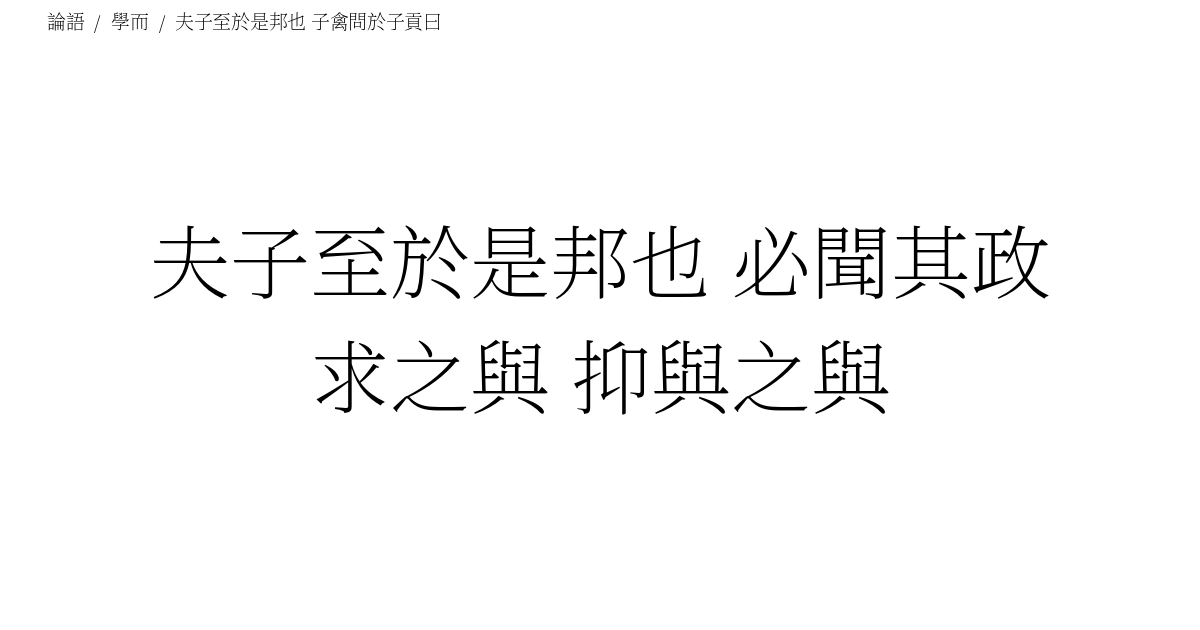
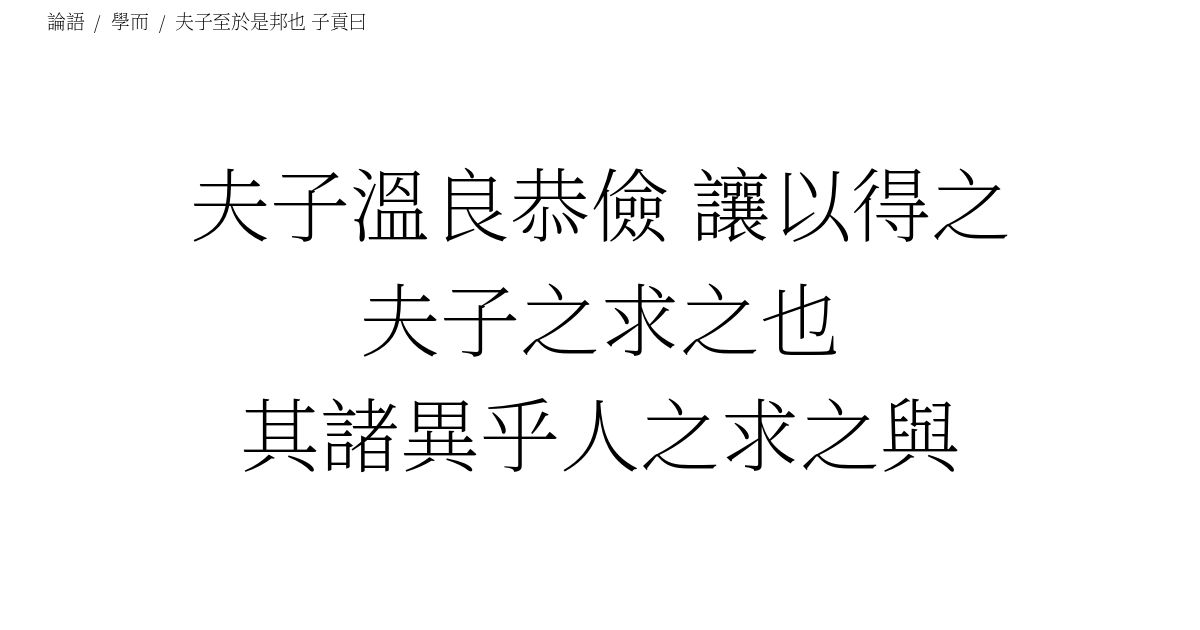
update content.

Changed region(s): [[0.1233, 0.2714, 0.8633, 0.754], [0.2775, 0.0, 0.37, 0.0603]]

diff --git a/docs/論語/學而/夫子至於是邦也.html b/docs/論語/學而/夫子至於是邦也.html
@@ -21,19 +21,19 @@
         <meta name="msapplication-TileColor" content="#ffffff">
         <meta name="msapplication-TileImage" content="/ms-icon-144x144.png">
         <meta name="theme-color" content="#ffffff">
-        <meta name="description" content="공자의 제자 자금이 자공에게 물었다. 선생님께서 어떤 나라에 이르시면 그 나라의 정사를 들으시는데, 선생께서 요구한 것입니까? 아니면 그 나라 임금이 들려준 것입니까?">
+        <meta name="description" content="자공이 말했다. 부자께서는 온화하고 어질며 공경하고 겸양함으로 그것을 얻으신 것이네, 부자께서 구하심은 다른 사람이 구한 것과는 다르다네.">
         <meta name="author" content="novemberizing">
         <meta name="generator" content="novemberizing static website generator version 0.0.1">
         <meta name="twitter:card" content="summary_large_image">
         <meta name="twitter:site" content="@iticworld">
         <meta name="twitter:creator" content="@iticworld">
         <meta name="twitter:title" content="論語/學而/夫子至於是邦也">
-        <meta name="twitter:description" content="공자의 제자 자금이 자공에게 물었다. 선생님께서 어떤 나라에 이르시면 그 나라의 정사를 들으시는데, 선생께서 요구한 것입니까? 아니면 그 나라 임금이 들려준 것입니까?"><meta name="twitter:image" content="https://novemberizing.github.io/orientalism/論語/學而/夫子至於是邦也.png">
+        <meta name="twitter:description" content="자공이 말했다. 부자께서는 온화하고 어질며 공경하고 겸양함으로 그것을 얻으신 것이네, 부자께서 구하심은 다른 사람이 구한 것과는 다르다네."><meta name="twitter:image" content="https://novemberizing.github.io/orientalism/論語/學而/夫子至於是邦也.png">
         <meta name="twitter:image:alt" content="論語/學而/夫子至於是邦也">
         <meta property="og:title" content="論語/學而/夫子至於是邦也" />
         <meta property="og:type" content="website" />
         <meta property="og:url" content="https://novemberizing.github.io/orientalism/論語/學而/夫子至於是邦也.html" />
-        <meta property="og:description" content="공자의 제자 자금이 자공에게 물었다. 선생님께서 어떤 나라에 이르시면 그 나라의 정사를 들으시는데, 선생께서 요구한 것입니까? 아니면 그 나라 임금이 들려준 것입니까?">
+        <meta property="og:description" content="자공이 말했다. 부자께서는 온화하고 어질며 공경하고 겸양함으로 그것을 얻으신 것이네, 부자께서 구하심은 다른 사람이 구한 것과는 다르다네.">
         <meta property="og:locale" content="ko_KR">
         <meta property="og:site_name" content="novemberizing/orientalism">
         <meta property="og:image" content="https://novemberizing.github.io/orientalism/論語/學而/夫子至於是邦也.png" />
@@ -55,7 +55,7 @@
                     document.getElementById('orientalism-play-btn').className = 'text-success';
                 }
                 playid = window.setTimeout(function(){
-                    location.href="/orientalism/論語/學而/學而時習之.html?play=on";
+                    location.href="/orientalism/論語/學而/夫子至於是邦也.html?play=on";
                 }, 15000);
                 if(document.getElementById('orientalism-play-btn')) {
                     document.getElementById('orientalism-play-btn').addEventListener('click', orientalismStop);
@@ -98,21 +98,22 @@
                         <div class="row">
                             <div class="col-lg-2 col-md-12">
                                 <h4 class="text-chinese text-chinese-prefix">
-                                    子禽問於子貢曰
+                                    子貢曰
                                 </h4>
                             </div>
                             <div class="col-lg-10 col-md-12">
                                 <div class="row">
                                     <div class="col-lg-12 col-md-12">
                                         <h1 class="text-chinese text-chinese-content">
-                                            夫子至於是邦也 必聞其政
-求之與 抑與之與
+                                            夫子溫良恭儉 讓以得之
+夫子之求之也
+其諸異乎人之求之與
                                         </h1>
                                     </div>
                                 </div>
                                 <div class="row">
                                     <div class="col-lg-12 col-md-12 text-chinese text-chinese-description p-5">
-                                        공자의 제자 자금이 자공에게 물었다. 선생님께서 어떤 나라에 이르시면 그 나라의 정사를 들으시는데, 선생께서 요구한 것입니까? 아니면 그 나라 임금이 들려준 것입니까?
+                                        자공이 말했다. 부자께서는 온화하고 어질며 공경하고 겸양함으로 그것을 얻으신 것이네, 부자께서 구하심은 다른 사람이 구한 것과는 다르다네.
                                     </div>
                                 </div>
                             </div>
@@ -124,10 +125,10 @@
                                 <a href="https://twitter.com/intent/tweet?url=https%3A%2F%2Fnovemberizing.github.io%2Forientalism%2F%25E8%25AB%2596%25E8%25AA%259E%2F%25E5%25AD%25B8%25E8%2580%258C%2F%25E5%25A4%25AB%25E5%25AD%2590%25E8%2587%25B3%25E6%2596%25BC%25E6%2598%25AF%25E9%2582%25A6%25E4%25B9%259F.html&hashtags=%E5%A4%AB%E5%AD%90%E8%87%B3%E6%96%BC%E6%98%AF%E9%82%A6%E4%B9%9F" target="_blank" class="text-secondary">
                                     <i class="fab fa-twitter fa-lg fa-fw"></i>
                                 </a>
-                                <a href="https://www.google.com/search?q=%E5%A4%AB%E5%AD%90%E8%87%B3%E6%96%BC%E6%98%AF%E9%82%A6%E4%B9%9F%20%E5%BF%85%E8%81%9E%E5%85%B6%E6%94%BF%0A%E6%B1%82%E4%B9%8B%E8%88%87%20%E6%8A%91%E8%88%87%E4%B9%8B%E8%88%87" target="_blank" class="text-secondary">
+                                <a href="https://www.google.com/search?q=%E5%A4%AB%E5%AD%90%E6%BA%AB%E8%89%AF%E6%81%AD%E5%84%89%20%E8%AE%93%E4%BB%A5%E5%BE%97%E4%B9%8B%0A%E5%A4%AB%E5%AD%90%E4%B9%8B%E6%B1%82%E4%B9%8B%E4%B9%9F%0A%E5%85%B6%E8%AB%B8%E7%95%B0%E4%B9%8E%E4%BA%BA%E4%B9%8B%E6%B1%82%E4%B9%8B%E8%88%87" target="_blank" class="text-secondary">
                                     <i class="fab fa-google fa-lg fa-fw"></i>
                                 </a>
-                                <a href="https://translate.google.co.kr/?sl=ko&tl=en&text=%EA%B3%B5%EC%9E%90%EC%9D%98%20%EC%A0%9C%EC%9E%90%20%EC%9E%90%EA%B8%88%EC%9D%B4%20%EC%9E%90%EA%B3%B5%EC%97%90%EA%B2%8C%20%EB%AC%BC%EC%97%88%EB%8B%A4.%20%EC%84%A0%EC%83%9D%EB%8B%98%EA%BB%98%EC%84%9C%20%EC%96%B4%EB%96%A4%20%EB%82%98%EB%9D%BC%EC%97%90%20%EC%9D%B4%EB%A5%B4%EC%8B%9C%EB%A9%B4%20%EA%B7%B8%20%EB%82%98%EB%9D%BC%EC%9D%98%20%EC%A0%95%EC%82%AC%EB%A5%BC%20%EB%93%A4%EC%9C%BC%EC%8B%9C%EB%8A%94%EB%8D%B0%2C%20%EC%84%A0%EC%83%9D%EA%BB%98%EC%84%9C%20%EC%9A%94%EA%B5%AC%ED%95%9C%20%EA%B2%83%EC%9E%85%EB%8B%88%EA%B9%8C%3F%20%EC%95%84%EB%8B%88%EB%A9%B4%20%EA%B7%B8%20%EB%82%98%EB%9D%BC%20%EC%9E%84%EA%B8%88%EC%9D%B4%20%EB%93%A4%EB%A0%A4%EC%A4%80%20%EA%B2%83%EC%9E%85%EB%8B%88%EA%B9%8C%3F&op=translate" target="_blank" class="text-secondary">
+                                <a href="https://translate.google.co.kr/?sl=ko&tl=en&text=%EC%9E%90%EA%B3%B5%EC%9D%B4%20%EB%A7%90%ED%96%88%EB%8B%A4.%20%EB%B6%80%EC%9E%90%EA%BB%98%EC%84%9C%EB%8A%94%20%EC%98%A8%ED%99%94%ED%95%98%EA%B3%A0%20%EC%96%B4%EC%A7%88%EB%A9%B0%20%EA%B3%B5%EA%B2%BD%ED%95%98%EA%B3%A0%20%EA%B2%B8%EC%96%91%ED%95%A8%EC%9C%BC%EB%A1%9C%20%EA%B7%B8%EA%B2%83%EC%9D%84%20%EC%96%BB%EC%9C%BC%EC%8B%A0%20%EA%B2%83%EC%9D%B4%EB%84%A4%2C%20%EB%B6%80%EC%9E%90%EA%BB%98%EC%84%9C%20%EA%B5%AC%ED%95%98%EC%8B%AC%EC%9D%80%20%EB%8B%A4%EB%A5%B8%20%EC%82%AC%EB%9E%8C%EC%9D%B4%20%EA%B5%AC%ED%95%9C%20%EA%B2%83%EA%B3%BC%EB%8A%94%20%EB%8B%A4%EB%A5%B4%EB%8B%A4%EB%84%A4.&op=translate" target="_blank" class="text-secondary">
                                     <i class="fas fa-language fa-lg fa-fw"></i>
                                 </a>
                                 <a href="#" class="text-secondary">
@@ -152,7 +153,7 @@
                         </div>
                     </div>
                     <div class="col-lg-4 col-md-12 p-2 book-panel">
-                        <a href="/orientalism/論語/學而/學而時習之.html" class="btn btn-outline-secondary p0 mt-1"><p class="font-weight-bold m0 p0 d-inline">學而時習之</p></a> <a href="/orientalism/論語/學而/其為人也孝弟.html" class="btn btn-outline-secondary p0 mt-1"><p class="font-weight-bold m0 p0 d-inline">其為人也孝弟</p></a> <a href="/orientalism/論語/學而/巧言令色.html" class="btn btn-outline-secondary p0 mt-1"><p class="font-weight-bold m0 p0 d-inline">巧言令色</p></a> <a href="/orientalism/論語/學而/吾日三省吾身.html" class="btn btn-outline-secondary p0 mt-1"><p class="font-weight-bold m0 p0 d-inline">吾日三省吾身</p></a> <a href="/orientalism/論語/學而/道千乘之國.html" class="btn btn-outline-secondary p0 mt-1"><p class="font-weight-bold m0 p0 d-inline">道千乘之國</p></a> <a href="/orientalism/論語/學而/弟子入則孝.html" class="btn btn-outline-secondary p0 mt-1"><p class="font-weight-bold m0 p0 d-inline">弟子入則孝</p></a> <a href="/orientalism/論語/學而/賢賢易色.html" class="btn btn-outline-secondary p0 mt-1"><p class="font-weight-bold m0 p0 d-inline">賢賢易色</p></a> <a href="/orientalism/論語/學而/君子不重則不威.html" class="btn btn-outline-secondary p0 mt-1"><p class="font-weight-bold m0 p0 d-inline">君子不重則不威</p></a> <a href="/orientalism/論語/學而/慎終追遠.html" class="btn btn-outline-secondary p0 mt-1"><p class="font-weight-bold m0 p0 d-inline">慎終追遠</p></a> <a href="/orientalism/論語/學而/夫子至於是邦也.html" class="btn btn-outline-success p0 mt-1"><p class="font-weight-bold m0 p0 d-inline">夫子至於是邦也</p></a>
+                        <a href="/orientalism/論語/學而/學而時習之.html" class="btn btn-outline-secondary p0 mt-1"><p class="font-weight-bold m0 p0 d-inline">學而時習之</p></a> <a href="/orientalism/論語/學而/其為人也孝弟.html" class="btn btn-outline-secondary p0 mt-1"><p class="font-weight-bold m0 p0 d-inline">其為人也孝弟</p></a> <a href="/orientalism/論語/學而/巧言令色.html" class="btn btn-outline-secondary p0 mt-1"><p class="font-weight-bold m0 p0 d-inline">巧言令色</p></a> <a href="/orientalism/論語/學而/吾日三省吾身.html" class="btn btn-outline-secondary p0 mt-1"><p class="font-weight-bold m0 p0 d-inline">吾日三省吾身</p></a> <a href="/orientalism/論語/學而/道千乘之國.html" class="btn btn-outline-secondary p0 mt-1"><p class="font-weight-bold m0 p0 d-inline">道千乘之國</p></a> <a href="/orientalism/論語/學而/弟子入則孝.html" class="btn btn-outline-secondary p0 mt-1"><p class="font-weight-bold m0 p0 d-inline">弟子入則孝</p></a> <a href="/orientalism/論語/學而/賢賢易色.html" class="btn btn-outline-secondary p0 mt-1"><p class="font-weight-bold m0 p0 d-inline">賢賢易色</p></a> <a href="/orientalism/論語/學而/君子不重則不威.html" class="btn btn-outline-secondary p0 mt-1"><p class="font-weight-bold m0 p0 d-inline">君子不重則不威</p></a> <a href="/orientalism/論語/學而/慎終追遠.html" class="btn btn-outline-secondary p0 mt-1"><p class="font-weight-bold m0 p0 d-inline">慎終追遠</p></a> <a href="/orientalism/論語/學而/夫子至於是邦也.html" class="btn btn-outline-success p0 mt-1"><p class="font-weight-bold m0 p0 d-inline">夫子至於是邦也</p></a> <a href="/orientalism/論語/學而/夫子至於是邦也.html" class="btn btn-outline-success p0 mt-1"><p class="font-weight-bold m0 p0 d-inline">夫子至於是邦也</p></a>
                     </div>
                 </div>
             </div>

diff --git a/docs/論語/學而/index.html b/docs/論語/學而/index.html
@@ -153,7 +153,7 @@
                         </div>
                     </div>
                     <div class="col-lg-4 col-md-12 p-2 book-panel">
-                        <a href="/orientalism/論語/學而/學而時習之.html" class="btn btn-outline-success p0 mt-1"><p class="font-weight-bold m0 p0 d-inline">學而時習之</p></a> <a href="/orientalism/論語/學而/其為人也孝弟.html" class="btn btn-outline-secondary p0 mt-1"><p class="font-weight-bold m0 p0 d-inline">其為人也孝弟</p></a> <a href="/orientalism/論語/學而/巧言令色.html" class="btn btn-outline-secondary p0 mt-1"><p class="font-weight-bold m0 p0 d-inline">巧言令色</p></a> <a href="/orientalism/論語/學而/吾日三省吾身.html" class="btn btn-outline-secondary p0 mt-1"><p class="font-weight-bold m0 p0 d-inline">吾日三省吾身</p></a> <a href="/orientalism/論語/學而/道千乘之國.html" class="btn btn-outline-secondary p0 mt-1"><p class="font-weight-bold m0 p0 d-inline">道千乘之國</p></a> <a href="/orientalism/論語/學而/弟子入則孝.html" class="btn btn-outline-secondary p0 mt-1"><p class="font-weight-bold m0 p0 d-inline">弟子入則孝</p></a> <a href="/orientalism/論語/學而/賢賢易色.html" class="btn btn-outline-secondary p0 mt-1"><p class="font-weight-bold m0 p0 d-inline">賢賢易色</p></a> <a href="/orientalism/論語/學而/君子不重則不威.html" class="btn btn-outline-secondary p0 mt-1"><p class="font-weight-bold m0 p0 d-inline">君子不重則不威</p></a> <a href="/orientalism/論語/學而/慎終追遠.html" class="btn btn-outline-secondary p0 mt-1"><p class="font-weight-bold m0 p0 d-inline">慎終追遠</p></a> <a href="/orientalism/論語/學而/夫子至於是邦也.html" class="btn btn-outline-secondary p0 mt-1"><p class="font-weight-bold m0 p0 d-inline">夫子至於是邦也</p></a>
+                        <a href="/orientalism/論語/學而/學而時習之.html" class="btn btn-outline-success p0 mt-1"><p class="font-weight-bold m0 p0 d-inline">學而時習之</p></a> <a href="/orientalism/論語/學而/其為人也孝弟.html" class="btn btn-outline-secondary p0 mt-1"><p class="font-weight-bold m0 p0 d-inline">其為人也孝弟</p></a> <a href="/orientalism/論語/學而/巧言令色.html" class="btn btn-outline-secondary p0 mt-1"><p class="font-weight-bold m0 p0 d-inline">巧言令色</p></a> <a href="/orientalism/論語/學而/吾日三省吾身.html" class="btn btn-outline-secondary p0 mt-1"><p class="font-weight-bold m0 p0 d-inline">吾日三省吾身</p></a> <a href="/orientalism/論語/學而/道千乘之國.html" class="btn btn-outline-secondary p0 mt-1"><p class="font-weight-bold m0 p0 d-inline">道千乘之國</p></a> <a href="/orientalism/論語/學而/弟子入則孝.html" class="btn btn-outline-secondary p0 mt-1"><p class="font-weight-bold m0 p0 d-inline">弟子入則孝</p></a> <a href="/orientalism/論語/學而/賢賢易色.html" class="btn btn-outline-secondary p0 mt-1"><p class="font-weight-bold m0 p0 d-inline">賢賢易色</p></a> <a href="/orientalism/論語/學而/君子不重則不威.html" class="btn btn-outline-secondary p0 mt-1"><p class="font-weight-bold m0 p0 d-inline">君子不重則不威</p></a> <a href="/orientalism/論語/學而/慎終追遠.html" class="btn btn-outline-secondary p0 mt-1"><p class="font-weight-bold m0 p0 d-inline">慎終追遠</p></a> <a href="/orientalism/論語/學而/夫子至於是邦也.html" class="btn btn-outline-secondary p0 mt-1"><p class="font-weight-bold m0 p0 d-inline">夫子至於是邦也</p></a> <a href="/orientalism/論語/學而/夫子至於是邦也.html" class="btn btn-outline-secondary p0 mt-1"><p class="font-weight-bold m0 p0 d-inline">夫子至於是邦也</p></a>
                     </div>
                 </div>
             </div>

diff --git a/docs/論語/學而/其為人也孝弟.html b/docs/論語/學而/其為人也孝弟.html
@@ -154,7 +154,7 @@
                         </div>
                     </div>
                     <div class="col-lg-4 col-md-12 p-2 book-panel">
-                        <a href="/orientalism/論語/學而/學而時習之.html" class="btn btn-outline-secondary p0 mt-1"><p class="font-weight-bold m0 p0 d-inline">學而時習之</p></a> <a href="/orientalism/論語/學而/其為人也孝弟.html" class="btn btn-outline-success p0 mt-1"><p class="font-weight-bold m0 p0 d-inline">其為人也孝弟</p></a> <a href="/orientalism/論語/學而/巧言令色.html" class="btn btn-outline-secondary p0 mt-1"><p class="font-weight-bold m0 p0 d-inline">巧言令色</p></a> <a href="/orientalism/論語/學而/吾日三省吾身.html" class="btn btn-outline-secondary p0 mt-1"><p class="font-weight-bold m0 p0 d-inline">吾日三省吾身</p></a> <a href="/orientalism/論語/學而/道千乘之國.html" class="btn btn-outline-secondary p0 mt-1"><p class="font-weight-bold m0 p0 d-inline">道千乘之國</p></a> <a href="/orientalism/論語/學而/弟子入則孝.html" class="btn btn-outline-secondary p0 mt-1"><p class="font-weight-bold m0 p0 d-inline">弟子入則孝</p></a> <a href="/orientalism/論語/學而/賢賢易色.html" class="btn btn-outline-secondary p0 mt-1"><p class="font-weight-bold m0 p0 d-inline">賢賢易色</p></a> <a href="/orientalism/論語/學而/君子不重則不威.html" class="btn btn-outline-secondary p0 mt-1"><p class="font-weight-bold m0 p0 d-inline">君子不重則不威</p></a> <a href="/orientalism/論語/學而/慎終追遠.html" class="btn btn-outline-secondary p0 mt-1"><p class="font-weight-bold m0 p0 d-inline">慎終追遠</p></a> <a href="/orientalism/論語/學而/夫子至於是邦也.html" class="btn btn-outline-secondary p0 mt-1"><p class="font-weight-bold m0 p0 d-inline">夫子至於是邦也</p></a>
+                        <a href="/orientalism/論語/學而/學而時習之.html" class="btn btn-outline-secondary p0 mt-1"><p class="font-weight-bold m0 p0 d-inline">學而時習之</p></a> <a href="/orientalism/論語/學而/其為人也孝弟.html" class="btn btn-outline-success p0 mt-1"><p class="font-weight-bold m0 p0 d-inline">其為人也孝弟</p></a> <a href="/orientalism/論語/學而/巧言令色.html" class="btn btn-outline-secondary p0 mt-1"><p class="font-weight-bold m0 p0 d-inline">巧言令色</p></a> <a href="/orientalism/論語/學而/吾日三省吾身.html" class="btn btn-outline-secondary p0 mt-1"><p class="font-weight-bold m0 p0 d-inline">吾日三省吾身</p></a> <a href="/orientalism/論語/學而/道千乘之國.html" class="btn btn-outline-secondary p0 mt-1"><p class="font-weight-bold m0 p0 d-inline">道千乘之國</p></a> <a href="/orientalism/論語/學而/弟子入則孝.html" class="btn btn-outline-secondary p0 mt-1"><p class="font-weight-bold m0 p0 d-inline">弟子入則孝</p></a> <a href="/orientalism/論語/學而/賢賢易色.html" class="btn btn-outline-secondary p0 mt-1"><p class="font-weight-bold m0 p0 d-inline">賢賢易色</p></a> <a href="/orientalism/論語/學而/君子不重則不威.html" class="btn btn-outline-secondary p0 mt-1"><p class="font-weight-bold m0 p0 d-inline">君子不重則不威</p></a> <a href="/orientalism/論語/學而/慎終追遠.html" class="btn btn-outline-secondary p0 mt-1"><p class="font-weight-bold m0 p0 d-inline">慎終追遠</p></a> <a href="/orientalism/論語/學而/夫子至於是邦也.html" class="btn btn-outline-secondary p0 mt-1"><p class="font-weight-bold m0 p0 d-inline">夫子至於是邦也</p></a> <a href="/orientalism/論語/學而/夫子至於是邦也.html" class="btn btn-outline-secondary p0 mt-1"><p class="font-weight-bold m0 p0 d-inline">夫子至於是邦也</p></a>
                     </div>
                 </div>
             </div>

diff --git a/docs/論語/學而/君子不重則不威.html b/docs/論語/學而/君子不重則不威.html
@@ -153,7 +153,7 @@
                         </div>
                     </div>
                     <div class="col-lg-4 col-md-12 p-2 book-panel">
-                        <a href="/orientalism/論語/學而/學而時習之.html" class="btn btn-outline-secondary p0 mt-1"><p class="font-weight-bold m0 p0 d-inline">學而時習之</p></a> <a href="/orientalism/論語/學而/其為人也孝弟.html" class="btn btn-outline-secondary p0 mt-1"><p class="font-weight-bold m0 p0 d-inline">其為人也孝弟</p></a> <a href="/orientalism/論語/學而/巧言令色.html" class="btn btn-outline-secondary p0 mt-1"><p class="font-weight-bold m0 p0 d-inline">巧言令色</p></a> <a href="/orientalism/論語/學而/吾日三省吾身.html" class="btn btn-outline-secondary p0 mt-1"><p class="font-weight-bold m0 p0 d-inline">吾日三省吾身</p></a> <a href="/orientalism/論語/學而/道千乘之國.html" class="btn btn-outline-secondary p0 mt-1"><p class="font-weight-bold m0 p0 d-inline">道千乘之國</p></a> <a href="/orientalism/論語/學而/弟子入則孝.html" class="btn btn-outline-secondary p0 mt-1"><p class="font-weight-bold m0 p0 d-inline">弟子入則孝</p></a> <a href="/orientalism/論語/學而/賢賢易色.html" class="btn btn-outline-secondary p0 mt-1"><p class="font-weight-bold m0 p0 d-inline">賢賢易色</p></a> <a href="/orientalism/論語/學而/君子不重則不威.html" class="btn btn-outline-success p0 mt-1"><p class="font-weight-bold m0 p0 d-inline">君子不重則不威</p></a> <a href="/orientalism/論語/學而/慎終追遠.html" class="btn btn-outline-secondary p0 mt-1"><p class="font-weight-bold m0 p0 d-inline">慎終追遠</p></a> <a href="/orientalism/論語/學而/夫子至於是邦也.html" class="btn btn-outline-secondary p0 mt-1"><p class="font-weight-bold m0 p0 d-inline">夫子至於是邦也</p></a>
+                        <a href="/orientalism/論語/學而/學而時習之.html" class="btn btn-outline-secondary p0 mt-1"><p class="font-weight-bold m0 p0 d-inline">學而時習之</p></a> <a href="/orientalism/論語/學而/其為人也孝弟.html" class="btn btn-outline-secondary p0 mt-1"><p class="font-weight-bold m0 p0 d-inline">其為人也孝弟</p></a> <a href="/orientalism/論語/學而/巧言令色.html" class="btn btn-outline-secondary p0 mt-1"><p class="font-weight-bold m0 p0 d-inline">巧言令色</p></a> <a href="/orientalism/論語/學而/吾日三省吾身.html" class="btn btn-outline-secondary p0 mt-1"><p class="font-weight-bold m0 p0 d-inline">吾日三省吾身</p></a> <a href="/orientalism/論語/學而/道千乘之國.html" class="btn btn-outline-secondary p0 mt-1"><p class="font-weight-bold m0 p0 d-inline">道千乘之國</p></a> <a href="/orientalism/論語/學而/弟子入則孝.html" class="btn btn-outline-secondary p0 mt-1"><p class="font-weight-bold m0 p0 d-inline">弟子入則孝</p></a> <a href="/orientalism/論語/學而/賢賢易色.html" class="btn btn-outline-secondary p0 mt-1"><p class="font-weight-bold m0 p0 d-inline">賢賢易色</p></a> <a href="/orientalism/論語/學而/君子不重則不威.html" class="btn btn-outline-success p0 mt-1"><p class="font-weight-bold m0 p0 d-inline">君子不重則不威</p></a> <a href="/orientalism/論語/學而/慎終追遠.html" class="btn btn-outline-secondary p0 mt-1"><p class="font-weight-bold m0 p0 d-inline">慎終追遠</p></a> <a href="/orientalism/論語/學而/夫子至於是邦也.html" class="btn btn-outline-secondary p0 mt-1"><p class="font-weight-bold m0 p0 d-inline">夫子至於是邦也</p></a> <a href="/orientalism/論語/學而/夫子至於是邦也.html" class="btn btn-outline-secondary p0 mt-1"><p class="font-weight-bold m0 p0 d-inline">夫子至於是邦也</p></a>
                     </div>
                 </div>
             </div>

diff --git a/docs/論語/學而/吾日三省吾身.html b/docs/論語/學而/吾日三省吾身.html
@@ -152,7 +152,7 @@
                         </div>
                     </div>
                     <div class="col-lg-4 col-md-12 p-2 book-panel">
-                        <a href="/orientalism/論語/學而/學而時習之.html" class="btn btn-outline-secondary p0 mt-1"><p class="font-weight-bold m0 p0 d-inline">學而時習之</p></a> <a href="/orientalism/論語/學而/其為人也孝弟.html" class="btn btn-outline-secondary p0 mt-1"><p class="font-weight-bold m0 p0 d-inline">其為人也孝弟</p></a> <a href="/orientalism/論語/學而/巧言令色.html" class="btn btn-outline-secondary p0 mt-1"><p class="font-weight-bold m0 p0 d-inline">巧言令色</p></a> <a href="/orientalism/論語/學而/吾日三省吾身.html" class="btn btn-outline-success p0 mt-1"><p class="font-weight-bold m0 p0 d-inline">吾日三省吾身</p></a> <a href="/orientalism/論語/學而/道千乘之國.html" class="btn btn-outline-secondary p0 mt-1"><p class="font-weight-bold m0 p0 d-inline">道千乘之國</p></a> <a href="/orientalism/論語/學而/弟子入則孝.html" class="btn btn-outline-secondary p0 mt-1"><p class="font-weight-bold m0 p0 d-inline">弟子入則孝</p></a> <a href="/orientalism/論語/學而/賢賢易色.html" class="btn btn-outline-secondary p0 mt-1"><p class="font-weight-bold m0 p0 d-inline">賢賢易色</p></a> <a href="/orientalism/論語/學而/君子不重則不威.html" class="btn btn-outline-secondary p0 mt-1"><p class="font-weight-bold m0 p0 d-inline">君子不重則不威</p></a> <a href="/orientalism/論語/學而/慎終追遠.html" class="btn btn-outline-secondary p0 mt-1"><p class="font-weight-bold m0 p0 d-inline">慎終追遠</p></a> <a href="/orientalism/論語/學而/夫子至於是邦也.html" class="btn btn-outline-secondary p0 mt-1"><p class="font-weight-bold m0 p0 d-inline">夫子至於是邦也</p></a>
+                        <a href="/orientalism/論語/學而/學而時習之.html" class="btn btn-outline-secondary p0 mt-1"><p class="font-weight-bold m0 p0 d-inline">學而時習之</p></a> <a href="/orientalism/論語/學而/其為人也孝弟.html" class="btn btn-outline-secondary p0 mt-1"><p class="font-weight-bold m0 p0 d-inline">其為人也孝弟</p></a> <a href="/orientalism/論語/學而/巧言令色.html" class="btn btn-outline-secondary p0 mt-1"><p class="font-weight-bold m0 p0 d-inline">巧言令色</p></a> <a href="/orientalism/論語/學而/吾日三省吾身.html" class="btn btn-outline-success p0 mt-1"><p class="font-weight-bold m0 p0 d-inline">吾日三省吾身</p></a> <a href="/orientalism/論語/學而/道千乘之國.html" class="btn btn-outline-secondary p0 mt-1"><p class="font-weight-bold m0 p0 d-inline">道千乘之國</p></a> <a href="/orientalism/論語/學而/弟子入則孝.html" class="btn btn-outline-secondary p0 mt-1"><p class="font-weight-bold m0 p0 d-inline">弟子入則孝</p></a> <a href="/orientalism/論語/學而/賢賢易色.html" class="btn btn-outline-secondary p0 mt-1"><p class="font-weight-bold m0 p0 d-inline">賢賢易色</p></a> <a href="/orientalism/論語/學而/君子不重則不威.html" class="btn btn-outline-secondary p0 mt-1"><p class="font-weight-bold m0 p0 d-inline">君子不重則不威</p></a> <a href="/orientalism/論語/學而/慎終追遠.html" class="btn btn-outline-secondary p0 mt-1"><p class="font-weight-bold m0 p0 d-inline">慎終追遠</p></a> <a href="/orientalism/論語/學而/夫子至於是邦也.html" class="btn btn-outline-secondary p0 mt-1"><p class="font-weight-bold m0 p0 d-inline">夫子至於是邦也</p></a> <a href="/orientalism/論語/學而/夫子至於是邦也.html" class="btn btn-outline-secondary p0 mt-1"><p class="font-weight-bold m0 p0 d-inline">夫子至於是邦也</p></a>
                     </div>
                 </div>
             </div>

diff --git a/docs/論語/學而/學而時習之.html b/docs/論語/學而/學而時習之.html
@@ -153,7 +153,7 @@
                         </div>
                     </div>
                     <div class="col-lg-4 col-md-12 p-2 book-panel">
-                        <a href="/orientalism/論語/學而/學而時習之.html" class="btn btn-outline-success p0 mt-1"><p class="font-weight-bold m0 p0 d-inline">學而時習之</p></a> <a href="/orientalism/論語/學而/其為人也孝弟.html" class="btn btn-outline-secondary p0 mt-1"><p class="font-weight-bold m0 p0 d-inline">其為人也孝弟</p></a> <a href="/orientalism/論語/學而/巧言令色.html" class="btn btn-outline-secondary p0 mt-1"><p class="font-weight-bold m0 p0 d-inline">巧言令色</p></a> <a href="/orientalism/論語/學而/吾日三省吾身.html" class="btn btn-outline-secondary p0 mt-1"><p class="font-weight-bold m0 p0 d-inline">吾日三省吾身</p></a> <a href="/orientalism/論語/學而/道千乘之國.html" class="btn btn-outline-secondary p0 mt-1"><p class="font-weight-bold m0 p0 d-inline">道千乘之國</p></a> <a href="/orientalism/論語/學而/弟子入則孝.html" class="btn btn-outline-secondary p0 mt-1"><p class="font-weight-bold m0 p0 d-inline">弟子入則孝</p></a> <a href="/orientalism/論語/學而/賢賢易色.html" class="btn btn-outline-secondary p0 mt-1"><p class="font-weight-bold m0 p0 d-inline">賢賢易色</p></a> <a href="/orientalism/論語/學而/君子不重則不威.html" class="btn btn-outline-secondary p0 mt-1"><p class="font-weight-bold m0 p0 d-inline">君子不重則不威</p></a> <a href="/orientalism/論語/學而/慎終追遠.html" class="btn btn-outline-secondary p0 mt-1"><p class="font-weight-bold m0 p0 d-inline">慎終追遠</p></a> <a href="/orientalism/論語/學而/夫子至於是邦也.html" class="btn btn-outline-secondary p0 mt-1"><p class="font-weight-bold m0 p0 d-inline">夫子至於是邦也</p></a>
+                        <a href="/orientalism/論語/學而/學而時習之.html" class="btn btn-outline-success p0 mt-1"><p class="font-weight-bold m0 p0 d-inline">學而時習之</p></a> <a href="/orientalism/論語/學而/其為人也孝弟.html" class="btn btn-outline-secondary p0 mt-1"><p class="font-weight-bold m0 p0 d-inline">其為人也孝弟</p></a> <a href="/orientalism/論語/學而/巧言令色.html" class="btn btn-outline-secondary p0 mt-1"><p class="font-weight-bold m0 p0 d-inline">巧言令色</p></a> <a href="/orientalism/論語/學而/吾日三省吾身.html" class="btn btn-outline-secondary p0 mt-1"><p class="font-weight-bold m0 p0 d-inline">吾日三省吾身</p></a> <a href="/orientalism/論語/學而/道千乘之國.html" class="btn btn-outline-secondary p0 mt-1"><p class="font-weight-bold m0 p0 d-inline">道千乘之國</p></a> <a href="/orientalism/論語/學而/弟子入則孝.html" class="btn btn-outline-secondary p0 mt-1"><p class="font-weight-bold m0 p0 d-inline">弟子入則孝</p></a> <a href="/orientalism/論語/學而/賢賢易色.html" class="btn btn-outline-secondary p0 mt-1"><p class="font-weight-bold m0 p0 d-inline">賢賢易色</p></a> <a href="/orientalism/論語/學而/君子不重則不威.html" class="btn btn-outline-secondary p0 mt-1"><p class="font-weight-bold m0 p0 d-inline">君子不重則不威</p></a> <a href="/orientalism/論語/學而/慎終追遠.html" class="btn btn-outline-secondary p0 mt-1"><p class="font-weight-bold m0 p0 d-inline">慎終追遠</p></a> <a href="/orientalism/論語/學而/夫子至於是邦也.html" class="btn btn-outline-secondary p0 mt-1"><p class="font-weight-bold m0 p0 d-inline">夫子至於是邦也</p></a> <a href="/orientalism/論語/學而/夫子至於是邦也.html" class="btn btn-outline-secondary p0 mt-1"><p class="font-weight-bold m0 p0 d-inline">夫子至於是邦也</p></a>
                     </div>
                 </div>
             </div>

diff --git a/docs/論語/學而/巧言令色.html b/docs/論語/學而/巧言令色.html
@@ -151,7 +151,7 @@
                         </div>
                     </div>
                     <div class="col-lg-4 col-md-12 p-2 book-panel">
-                        <a href="/orientalism/論語/學而/學而時習之.html" class="btn btn-outline-secondary p0 mt-1"><p class="font-weight-bold m0 p0 d-inline">學而時習之</p></a> <a href="/orientalism/論語/學而/其為人也孝弟.html" class="btn btn-outline-secondary p0 mt-1"><p class="font-weight-bold m0 p0 d-inline">其為人也孝弟</p></a> <a href="/orientalism/論語/學而/巧言令色.html" class="btn btn-outline-success p0 mt-1"><p class="font-weight-bold m0 p0 d-inline">巧言令色</p></a> <a href="/orientalism/論語/學而/吾日三省吾身.html" class="btn btn-outline-secondary p0 mt-1"><p class="font-weight-bold m0 p0 d-inline">吾日三省吾身</p></a> <a href="/orientalism/論語/學而/道千乘之國.html" class="btn btn-outline-secondary p0 mt-1"><p class="font-weight-bold m0 p0 d-inline">道千乘之國</p></a> <a href="/orientalism/論語/學而/弟子入則孝.html" class="btn btn-outline-secondary p0 mt-1"><p class="font-weight-bold m0 p0 d-inline">弟子入則孝</p></a> <a href="/orientalism/論語/學而/賢賢易色.html" class="btn btn-outline-secondary p0 mt-1"><p class="font-weight-bold m0 p0 d-inline">賢賢易色</p></a> <a href="/orientalism/論語/學而/君子不重則不威.html" class="btn btn-outline-secondary p0 mt-1"><p class="font-weight-bold m0 p0 d-inline">君子不重則不威</p></a> <a href="/orientalism/論語/學而/慎終追遠.html" class="btn btn-outline-secondary p0 mt-1"><p class="font-weight-bold m0 p0 d-inline">慎終追遠</p></a> <a href="/orientalism/論語/學而/夫子至於是邦也.html" class="btn btn-outline-secondary p0 mt-1"><p class="font-weight-bold m0 p0 d-inline">夫子至於是邦也</p></a>
+                        <a href="/orientalism/論語/學而/學而時習之.html" class="btn btn-outline-secondary p0 mt-1"><p class="font-weight-bold m0 p0 d-inline">學而時習之</p></a> <a href="/orientalism/論語/學而/其為人也孝弟.html" class="btn btn-outline-secondary p0 mt-1"><p class="font-weight-bold m0 p0 d-inline">其為人也孝弟</p></a> <a href="/orientalism/論語/學而/巧言令色.html" class="btn btn-outline-success p0 mt-1"><p class="font-weight-bold m0 p0 d-inline">巧言令色</p></a> <a href="/orientalism/論語/學而/吾日三省吾身.html" class="btn btn-outline-secondary p0 mt-1"><p class="font-weight-bold m0 p0 d-inline">吾日三省吾身</p></a> <a href="/orientalism/論語/學而/道千乘之國.html" class="btn btn-outline-secondary p0 mt-1"><p class="font-weight-bold m0 p0 d-inline">道千乘之國</p></a> <a href="/orientalism/論語/學而/弟子入則孝.html" class="btn btn-outline-secondary p0 mt-1"><p class="font-weight-bold m0 p0 d-inline">弟子入則孝</p></a> <a href="/orientalism/論語/學而/賢賢易色.html" class="btn btn-outline-secondary p0 mt-1"><p class="font-weight-bold m0 p0 d-inline">賢賢易色</p></a> <a href="/orientalism/論語/學而/君子不重則不威.html" class="btn btn-outline-secondary p0 mt-1"><p class="font-weight-bold m0 p0 d-inline">君子不重則不威</p></a> <a href="/orientalism/論語/學而/慎終追遠.html" class="btn btn-outline-secondary p0 mt-1"><p class="font-weight-bold m0 p0 d-inline">慎終追遠</p></a> <a href="/orientalism/論語/學而/夫子至於是邦也.html" class="btn btn-outline-secondary p0 mt-1"><p class="font-weight-bold m0 p0 d-inline">夫子至於是邦也</p></a> <a href="/orientalism/論語/學而/夫子至於是邦也.html" class="btn btn-outline-secondary p0 mt-1"><p class="font-weight-bold m0 p0 d-inline">夫子至於是邦也</p></a>
                     </div>
                 </div>
             </div>

diff --git a/docs/論語/學而/弟子入則孝.html b/docs/論語/學而/弟子入則孝.html
@@ -153,7 +153,7 @@
                         </div>
                     </div>
                     <div class="col-lg-4 col-md-12 p-2 book-panel">
-                        <a href="/orientalism/論語/學而/學而時習之.html" class="btn btn-outline-secondary p0 mt-1"><p class="font-weight-bold m0 p0 d-inline">學而時習之</p></a> <a href="/orientalism/論語/學而/其為人也孝弟.html" class="btn btn-outline-secondary p0 mt-1"><p class="font-weight-bold m0 p0 d-inline">其為人也孝弟</p></a> <a href="/orientalism/論語/學而/巧言令色.html" class="btn btn-outline-secondary p0 mt-1"><p class="font-weight-bold m0 p0 d-inline">巧言令色</p></a> <a href="/orientalism/論語/學而/吾日三省吾身.html" class="btn btn-outline-secondary p0 mt-1"><p class="font-weight-bold m0 p0 d-inline">吾日三省吾身</p></a> <a href="/orientalism/論語/學而/道千乘之國.html" class="btn btn-outline-secondary p0 mt-1"><p class="font-weight-bold m0 p0 d-inline">道千乘之國</p></a> <a href="/orientalism/論語/學而/弟子入則孝.html" class="btn btn-outline-success p0 mt-1"><p class="font-weight-bold m0 p0 d-inline">弟子入則孝</p></a> <a href="/orientalism/論語/學而/賢賢易色.html" class="btn btn-outline-secondary p0 mt-1"><p class="font-weight-bold m0 p0 d-inline">賢賢易色</p></a> <a href="/orientalism/論語/學而/君子不重則不威.html" class="btn btn-outline-secondary p0 mt-1"><p class="font-weight-bold m0 p0 d-inline">君子不重則不威</p></a> <a href="/orientalism/論語/學而/慎終追遠.html" class="btn btn-outline-secondary p0 mt-1"><p class="font-weight-bold m0 p0 d-inline">慎終追遠</p></a> <a href="/orientalism/論語/學而/夫子至於是邦也.html" class="btn btn-outline-secondary p0 mt-1"><p class="font-weight-bold m0 p0 d-inline">夫子至於是邦也</p></a>
+                        <a href="/orientalism/論語/學而/學而時習之.html" class="btn btn-outline-secondary p0 mt-1"><p class="font-weight-bold m0 p0 d-inline">學而時習之</p></a> <a href="/orientalism/論語/學而/其為人也孝弟.html" class="btn btn-outline-secondary p0 mt-1"><p class="font-weight-bold m0 p0 d-inline">其為人也孝弟</p></a> <a href="/orientalism/論語/學而/巧言令色.html" class="btn btn-outline-secondary p0 mt-1"><p class="font-weight-bold m0 p0 d-inline">巧言令色</p></a> <a href="/orientalism/論語/學而/吾日三省吾身.html" class="btn btn-outline-secondary p0 mt-1"><p class="font-weight-bold m0 p0 d-inline">吾日三省吾身</p></a> <a href="/orientalism/論語/學而/道千乘之國.html" class="btn btn-outline-secondary p0 mt-1"><p class="font-weight-bold m0 p0 d-inline">道千乘之國</p></a> <a href="/orientalism/論語/學而/弟子入則孝.html" class="btn btn-outline-success p0 mt-1"><p class="font-weight-bold m0 p0 d-inline">弟子入則孝</p></a> <a href="/orientalism/論語/學而/賢賢易色.html" class="btn btn-outline-secondary p0 mt-1"><p class="font-weight-bold m0 p0 d-inline">賢賢易色</p></a> <a href="/orientalism/論語/學而/君子不重則不威.html" class="btn btn-outline-secondary p0 mt-1"><p class="font-weight-bold m0 p0 d-inline">君子不重則不威</p></a> <a href="/orientalism/論語/學而/慎終追遠.html" class="btn btn-outline-secondary p0 mt-1"><p class="font-weight-bold m0 p0 d-inline">慎終追遠</p></a> <a href="/orientalism/論語/學而/夫子至於是邦也.html" class="btn btn-outline-secondary p0 mt-1"><p class="font-weight-bold m0 p0 d-inline">夫子至於是邦也</p></a> <a href="/orientalism/論語/學而/夫子至於是邦也.html" class="btn btn-outline-secondary p0 mt-1"><p class="font-weight-bold m0 p0 d-inline">夫子至於是邦也</p></a>
                     </div>
                 </div>
             </div>

diff --git a/docs/論語/學而/慎終追遠.html b/docs/論語/學而/慎終追遠.html
@@ -151,7 +151,7 @@
                         </div>
                     </div>
                     <div class="col-lg-4 col-md-12 p-2 book-panel">
-                        <a href="/orientalism/論語/學而/學而時習之.html" class="btn btn-outline-secondary p0 mt-1"><p class="font-weight-bold m0 p0 d-inline">學而時習之</p></a> <a href="/orientalism/論語/學而/其為人也孝弟.html" class="btn btn-outline-secondary p0 mt-1"><p class="font-weight-bold m0 p0 d-inline">其為人也孝弟</p></a> <a href="/orientalism/論語/學而/巧言令色.html" class="btn btn-outline-secondary p0 mt-1"><p class="font-weight-bold m0 p0 d-inline">巧言令色</p></a> <a href="/orientalism/論語/學而/吾日三省吾身.html" class="btn btn-outline-secondary p0 mt-1"><p class="font-weight-bold m0 p0 d-inline">吾日三省吾身</p></a> <a href="/orientalism/論語/學而/道千乘之國.html" class="btn btn-outline-secondary p0 mt-1"><p class="font-weight-bold m0 p0 d-inline">道千乘之國</p></a> <a href="/orientalism/論語/學而/弟子入則孝.html" class="btn btn-outline-secondary p0 mt-1"><p class="font-weight-bold m0 p0 d-inline">弟子入則孝</p></a> <a href="/orientalism/論語/學而/賢賢易色.html" class="btn btn-outline-secondary p0 mt-1"><p class="font-weight-bold m0 p0 d-inline">賢賢易色</p></a> <a href="/orientalism/論語/學而/君子不重則不威.html" class="btn btn-outline-secondary p0 mt-1"><p class="font-weight-bold m0 p0 d-inline">君子不重則不威</p></a> <a href="/orientalism/論語/學而/慎終追遠.html" class="btn btn-outline-success p0 mt-1"><p class="font-weight-bold m0 p0 d-inline">慎終追遠</p></a> <a href="/orientalism/論語/學而/夫子至於是邦也.html" class="btn btn-outline-secondary p0 mt-1"><p class="font-weight-bold m0 p0 d-inline">夫子至於是邦也</p></a>
+                        <a href="/orientalism/論語/學而/學而時習之.html" class="btn btn-outline-secondary p0 mt-1"><p class="font-weight-bold m0 p0 d-inline">學而時習之</p></a> <a href="/orientalism/論語/學而/其為人也孝弟.html" class="btn btn-outline-secondary p0 mt-1"><p class="font-weight-bold m0 p0 d-inline">其為人也孝弟</p></a> <a href="/orientalism/論語/學而/巧言令色.html" class="btn btn-outline-secondary p0 mt-1"><p class="font-weight-bold m0 p0 d-inline">巧言令色</p></a> <a href="/orientalism/論語/學而/吾日三省吾身.html" class="btn btn-outline-secondary p0 mt-1"><p class="font-weight-bold m0 p0 d-inline">吾日三省吾身</p></a> <a href="/orientalism/論語/學而/道千乘之國.html" class="btn btn-outline-secondary p0 mt-1"><p class="font-weight-bold m0 p0 d-inline">道千乘之國</p></a> <a href="/orientalism/論語/學而/弟子入則孝.html" class="btn btn-outline-secondary p0 mt-1"><p class="font-weight-bold m0 p0 d-inline">弟子入則孝</p></a> <a href="/orientalism/論語/學而/賢賢易色.html" class="btn btn-outline-secondary p0 mt-1"><p class="font-weight-bold m0 p0 d-inline">賢賢易色</p></a> <a href="/orientalism/論語/學而/君子不重則不威.html" class="btn btn-outline-secondary p0 mt-1"><p class="font-weight-bold m0 p0 d-inline">君子不重則不威</p></a> <a href="/orientalism/論語/學而/慎終追遠.html" class="btn btn-outline-success p0 mt-1"><p class="font-weight-bold m0 p0 d-inline">慎終追遠</p></a> <a href="/orientalism/論語/學而/夫子至於是邦也.html" class="btn btn-outline-secondary p0 mt-1"><p class="font-weight-bold m0 p0 d-inline">夫子至於是邦也</p></a> <a href="/orientalism/論語/學而/夫子至於是邦也.html" class="btn btn-outline-secondary p0 mt-1"><p class="font-weight-bold m0 p0 d-inline">夫子至於是邦也</p></a>
                     </div>
                 </div>
             </div>

diff --git a/docs/論語/學而/賢賢易色.html b/docs/論語/學而/賢賢易色.html
@@ -154,7 +154,7 @@
                         </div>
                     </div>
                     <div class="col-lg-4 col-md-12 p-2 book-panel">
-                        <a href="/orientalism/論語/學而/學而時習之.html" class="btn btn-outline-secondary p0 mt-1"><p class="font-weight-bold m0 p0 d-inline">學而時習之</p></a> <a href="/orientalism/論語/學而/其為人也孝弟.html" class="btn btn-outline-secondary p0 mt-1"><p class="font-weight-bold m0 p0 d-inline">其為人也孝弟</p></a> <a href="/orientalism/論語/學而/巧言令色.html" class="btn btn-outline-secondary p0 mt-1"><p class="font-weight-bold m0 p0 d-inline">巧言令色</p></a> <a href="/orientalism/論語/學而/吾日三省吾身.html" class="btn btn-outline-secondary p0 mt-1"><p class="font-weight-bold m0 p0 d-inline">吾日三省吾身</p></a> <a href="/orientalism/論語/學而/道千乘之國.html" class="btn btn-outline-secondary p0 mt-1"><p class="font-weight-bold m0 p0 d-inline">道千乘之國</p></a> <a href="/orientalism/論語/學而/弟子入則孝.html" class="btn btn-outline-secondary p0 mt-1"><p class="font-weight-bold m0 p0 d-inline">弟子入則孝</p></a> <a href="/orientalism/論語/學而/賢賢易色.html" class="btn btn-outline-success p0 mt-1"><p class="font-weight-bold m0 p0 d-inline">賢賢易色</p></a> <a href="/orientalism/論語/學而/君子不重則不威.html" class="btn btn-outline-secondary p0 mt-1"><p class="font-weight-bold m0 p0 d-inline">君子不重則不威</p></a> <a href="/orientalism/論語/學而/慎終追遠.html" class="btn btn-outline-secondary p0 mt-1"><p class="font-weight-bold m0 p0 d-inline">慎終追遠</p></a> <a href="/orientalism/論語/學而/夫子至於是邦也.html" class="btn btn-outline-secondary p0 mt-1"><p class="font-weight-bold m0 p0 d-inline">夫子至於是邦也</p></a>
+                        <a href="/orientalism/論語/學而/學而時習之.html" class="btn btn-outline-secondary p0 mt-1"><p class="font-weight-bold m0 p0 d-inline">學而時習之</p></a> <a href="/orientalism/論語/學而/其為人也孝弟.html" class="btn btn-outline-secondary p0 mt-1"><p class="font-weight-bold m0 p0 d-inline">其為人也孝弟</p></a> <a href="/orientalism/論語/學而/巧言令色.html" class="btn btn-outline-secondary p0 mt-1"><p class="font-weight-bold m0 p0 d-inline">巧言令色</p></a> <a href="/orientalism/論語/學而/吾日三省吾身.html" class="btn btn-outline-secondary p0 mt-1"><p class="font-weight-bold m0 p0 d-inline">吾日三省吾身</p></a> <a href="/orientalism/論語/學而/道千乘之國.html" class="btn btn-outline-secondary p0 mt-1"><p class="font-weight-bold m0 p0 d-inline">道千乘之國</p></a> <a href="/orientalism/論語/學而/弟子入則孝.html" class="btn btn-outline-secondary p0 mt-1"><p class="font-weight-bold m0 p0 d-inline">弟子入則孝</p></a> <a href="/orientalism/論語/學而/賢賢易色.html" class="btn btn-outline-success p0 mt-1"><p class="font-weight-bold m0 p0 d-inline">賢賢易色</p></a> <a href="/orientalism/論語/學而/君子不重則不威.html" class="btn btn-outline-secondary p0 mt-1"><p class="font-weight-bold m0 p0 d-inline">君子不重則不威</p></a> <a href="/orientalism/論語/學而/慎終追遠.html" class="btn btn-outline-secondary p0 mt-1"><p class="font-weight-bold m0 p0 d-inline">慎終追遠</p></a> <a href="/orientalism/論語/學而/夫子至於是邦也.html" class="btn btn-outline-secondary p0 mt-1"><p class="font-weight-bold m0 p0 d-inline">夫子至於是邦也</p></a> <a href="/orientalism/論語/學而/夫子至於是邦也.html" class="btn btn-outline-secondary p0 mt-1"><p class="font-weight-bold m0 p0 d-inline">夫子至於是邦也</p></a>
                     </div>
                 </div>
             </div>

diff --git a/docs/論語/學而/道千乘之國.html b/docs/論語/學而/道千乘之國.html
@@ -152,7 +152,7 @@
                         </div>
                     </div>
                     <div class="col-lg-4 col-md-12 p-2 book-panel">
-                        <a href="/orientalism/論語/學而/學而時習之.html" class="btn btn-outline-secondary p0 mt-1"><p class="font-weight-bold m0 p0 d-inline">學而時習之</p></a> <a href="/orientalism/論語/學而/其為人也孝弟.html" class="btn btn-outline-secondary p0 mt-1"><p class="font-weight-bold m0 p0 d-inline">其為人也孝弟</p></a> <a href="/orientalism/論語/學而/巧言令色.html" class="btn btn-outline-secondary p0 mt-1"><p class="font-weight-bold m0 p0 d-inline">巧言令色</p></a> <a href="/orientalism/論語/學而/吾日三省吾身.html" class="btn btn-outline-secondary p0 mt-1"><p class="font-weight-bold m0 p0 d-inline">吾日三省吾身</p></a> <a href="/orientalism/論語/學而/道千乘之國.html" class="btn btn-outline-success p0 mt-1"><p class="font-weight-bold m0 p0 d-inline">道千乘之國</p></a> <a href="/orientalism/論語/學而/弟子入則孝.html" class="btn btn-outline-secondary p0 mt-1"><p class="font-weight-bold m0 p0 d-inline">弟子入則孝</p></a> <a href="/orientalism/論語/學而/賢賢易色.html" class="btn btn-outline-secondary p0 mt-1"><p class="font-weight-bold m0 p0 d-inline">賢賢易色</p></a> <a href="/orientalism/論語/學而/君子不重則不威.html" class="btn btn-outline-secondary p0 mt-1"><p class="font-weight-bold m0 p0 d-inline">君子不重則不威</p></a> <a href="/orientalism/論語/學而/慎終追遠.html" class="btn btn-outline-secondary p0 mt-1"><p class="font-weight-bold m0 p0 d-inline">慎終追遠</p></a> <a href="/orientalism/論語/學而/夫子至於是邦也.html" class="btn btn-outline-secondary p0 mt-1"><p class="font-weight-bold m0 p0 d-inline">夫子至於是邦也</p></a>
+                        <a href="/orientalism/論語/學而/學而時習之.html" class="btn btn-outline-secondary p0 mt-1"><p class="font-weight-bold m0 p0 d-inline">學而時習之</p></a> <a href="/orientalism/論語/學而/其為人也孝弟.html" class="btn btn-outline-secondary p0 mt-1"><p class="font-weight-bold m0 p0 d-inline">其為人也孝弟</p></a> <a href="/orientalism/論語/學而/巧言令色.html" class="btn btn-outline-secondary p0 mt-1"><p class="font-weight-bold m0 p0 d-inline">巧言令色</p></a> <a href="/orientalism/論語/學而/吾日三省吾身.html" class="btn btn-outline-secondary p0 mt-1"><p class="font-weight-bold m0 p0 d-inline">吾日三省吾身</p></a> <a href="/orientalism/論語/學而/道千乘之國.html" class="btn btn-outline-success p0 mt-1"><p class="font-weight-bold m0 p0 d-inline">道千乘之國</p></a> <a href="/orientalism/論語/學而/弟子入則孝.html" class="btn btn-outline-secondary p0 mt-1"><p class="font-weight-bold m0 p0 d-inline">弟子入則孝</p></a> <a href="/orientalism/論語/學而/賢賢易色.html" class="btn btn-outline-secondary p0 mt-1"><p class="font-weight-bold m0 p0 d-inline">賢賢易色</p></a> <a href="/orientalism/論語/學而/君子不重則不威.html" class="btn btn-outline-secondary p0 mt-1"><p class="font-weight-bold m0 p0 d-inline">君子不重則不威</p></a> <a href="/orientalism/論語/學而/慎終追遠.html" class="btn btn-outline-secondary p0 mt-1"><p class="font-weight-bold m0 p0 d-inline">慎終追遠</p></a> <a href="/orientalism/論語/學而/夫子至於是邦也.html" class="btn btn-outline-secondary p0 mt-1"><p class="font-weight-bold m0 p0 d-inline">夫子至於是邦也</p></a> <a href="/orientalism/論語/學而/夫子至於是邦也.html" class="btn btn-outline-secondary p0 mt-1"><p class="font-weight-bold m0 p0 d-inline">夫子至於是邦也</p></a>
                     </div>
                 </div>
             </div>
